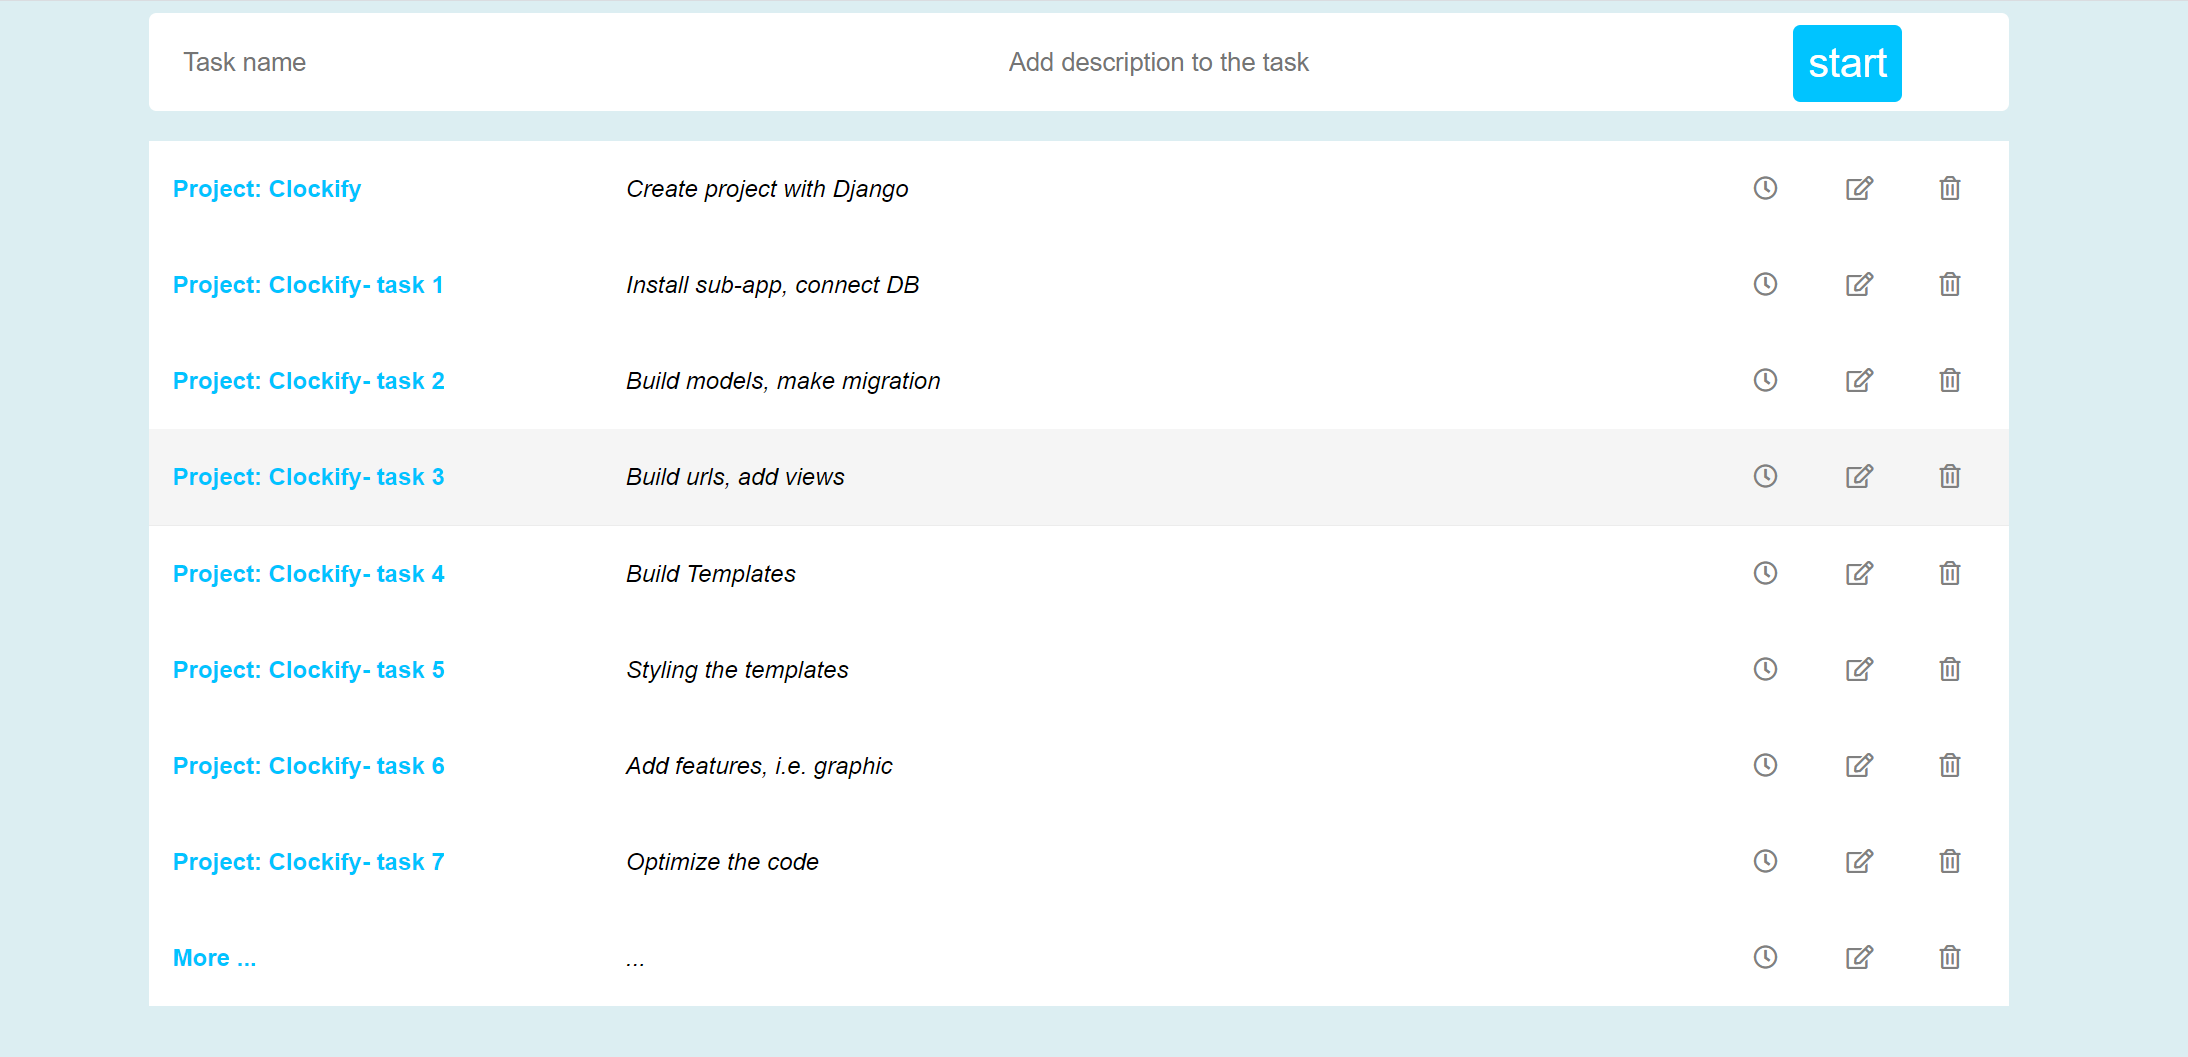
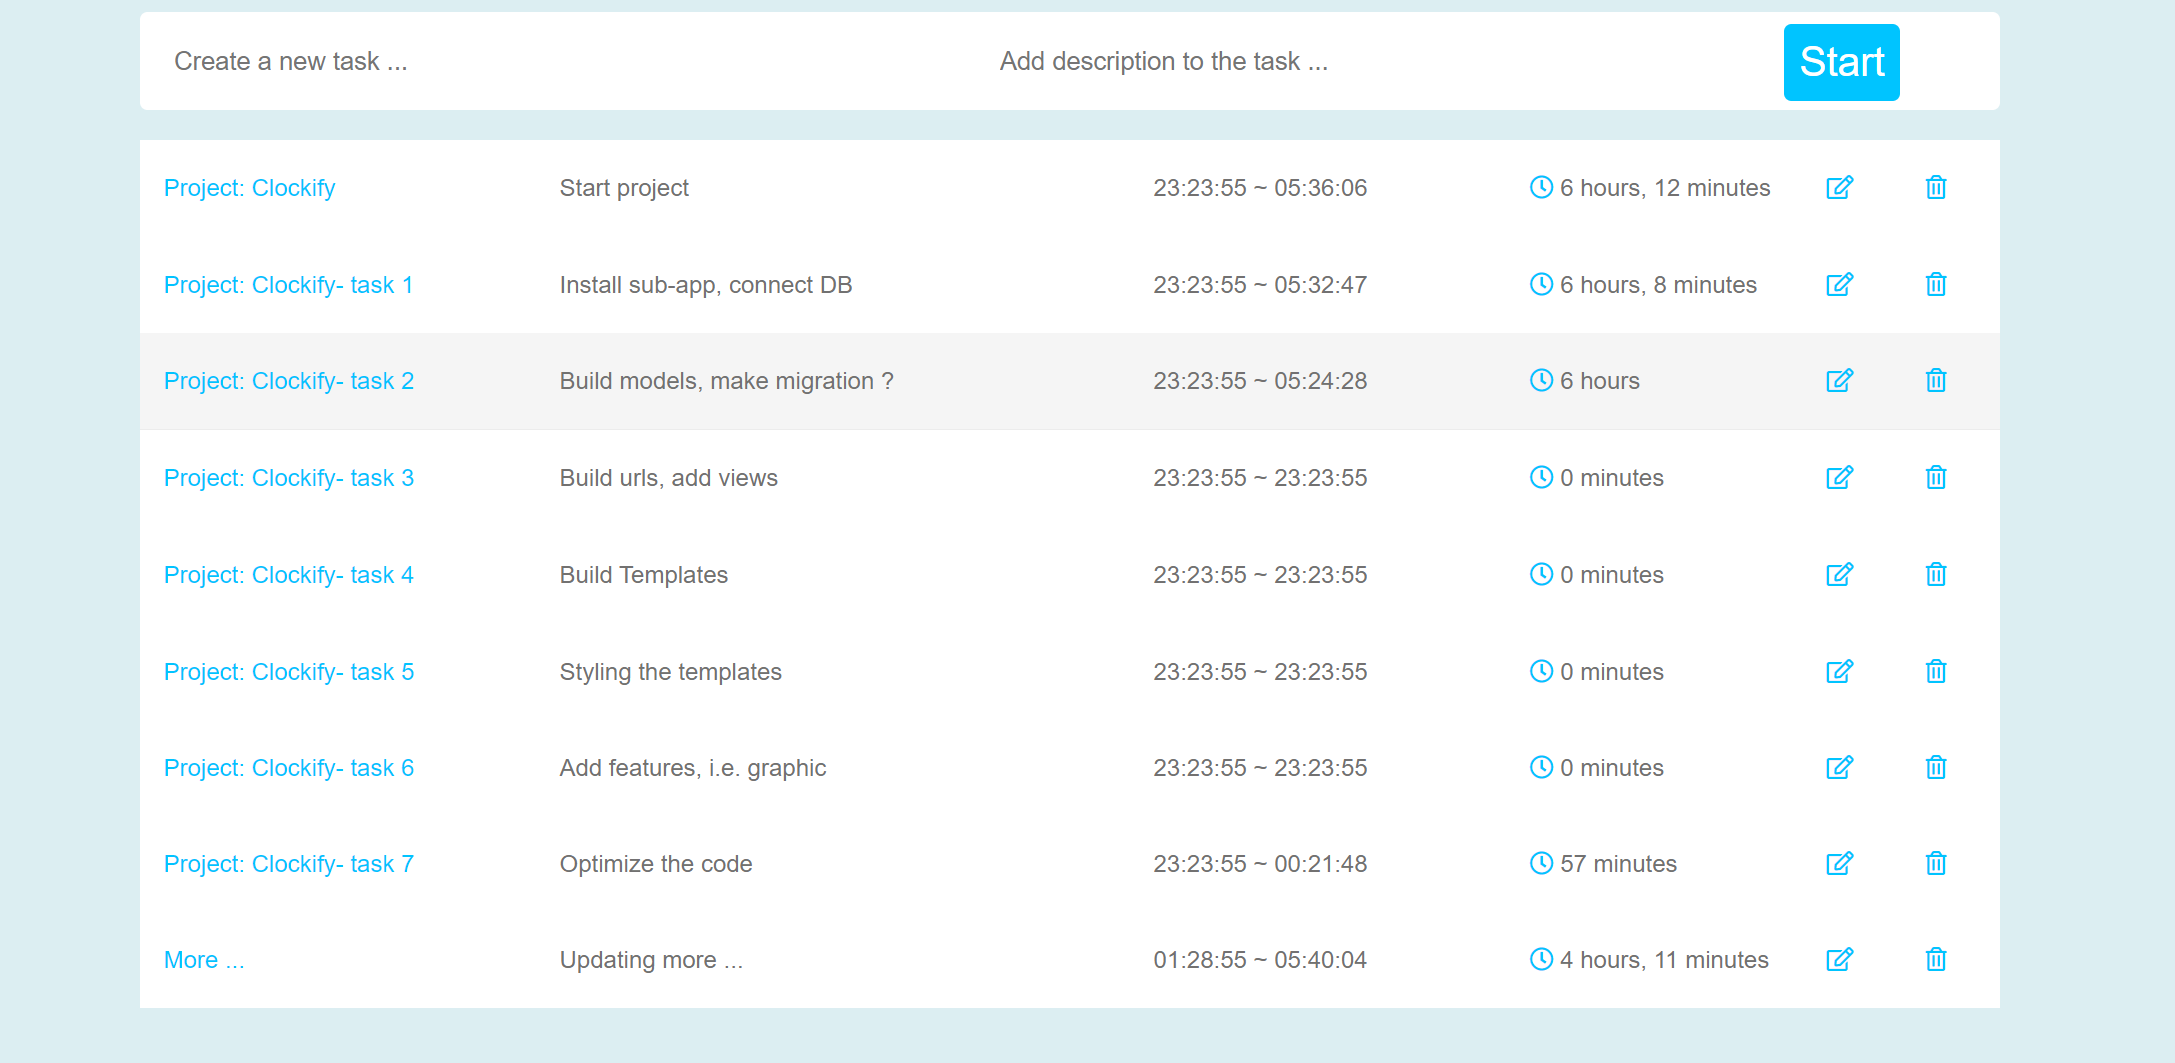
Upload screenshot

diff --git a/templates/task/index.html b/templates/task/index.html
@@ -17,7 +17,7 @@
             <form method="post" action="../taskmanager/add/">
                 {% csrf_token %}
                 <input style="outline:none;" name="task_no" placeholder="Create a new task ..."/>
-                <input style="outline:none;" name="task_desc" placeholder="Add description to the task"/>
+                <input style="outline:none;" name="task_desc" placeholder="Add description to the task ..."/>
                 <button type="submit">Start</button>
             </form>
         </div>
@@ -28,8 +28,8 @@
             <tr>
                 <td style="width:20%;color: #00C4FF;" >{{ task.task_no }} </td>
                 <td style="width:30%; color: #727171;">{{ task.task_desc }} </td>
-                <td style="width:9%;color: #727171;">{{ task.create_date|date:'H:i:s' }}</td>
-                <td style="width:9%;color: #727171;">{{ task.update_Date|date:'H:i:s' }}</td>
+                <td style="width:19%;color: #727171;">{{ task.create_date|date:'H:i:s' }} ~ {{ task.update_Date|date:'H:i:s' }}</td>
+
                 <td style="width:15%; color: #727171;"><i class="far fa-clock"></i> {{ task.update_Date|timeuntil:task.create_date}}</td>
                 <td style="width:5%"><a href="../taskmanager/edit/?id={{ task.id }}"> <i class="far fa-edit"></i> </a> </td>
                 <td style="width:5%"><a href="../taskmanager/delete/?id={{ task.id }}"> <i class="far fa-trash-alt"></i> </a></td>
